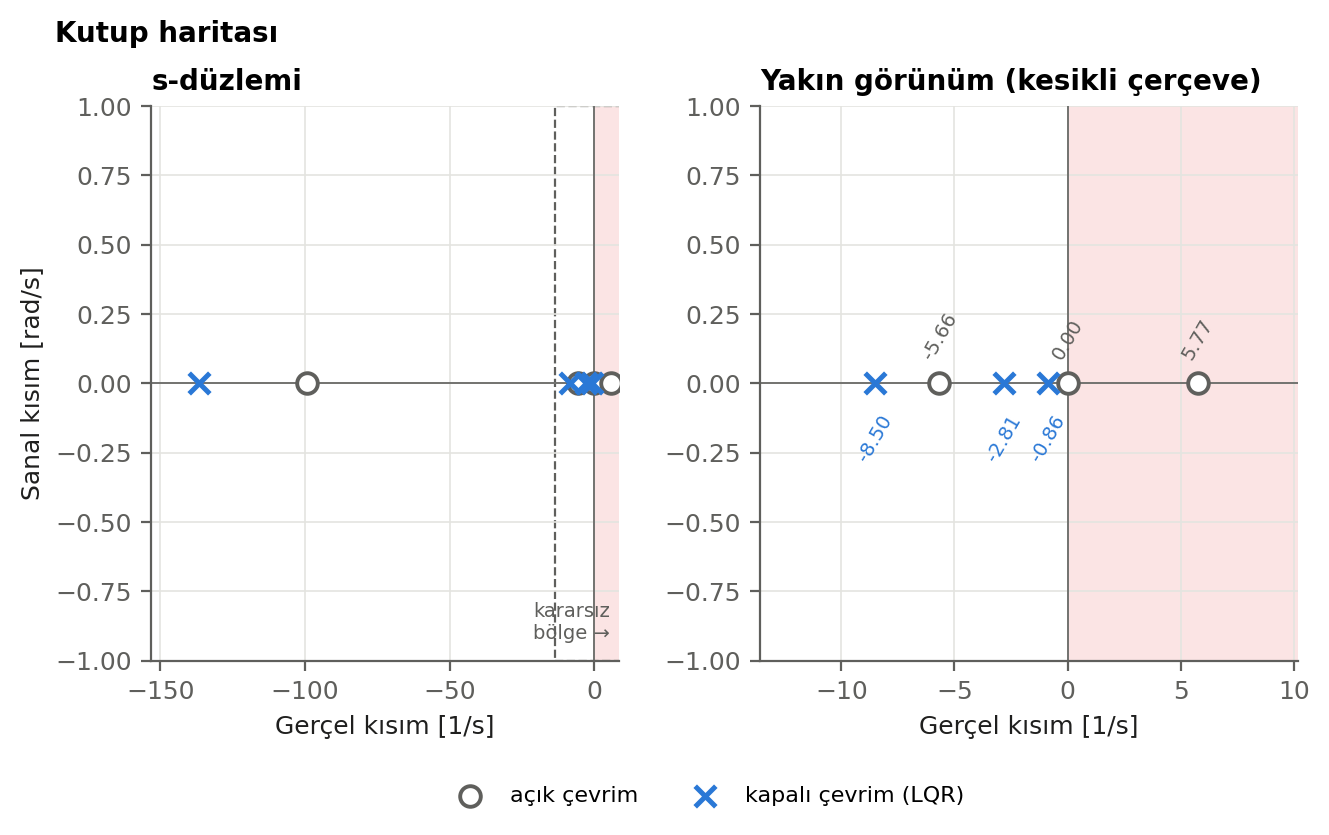
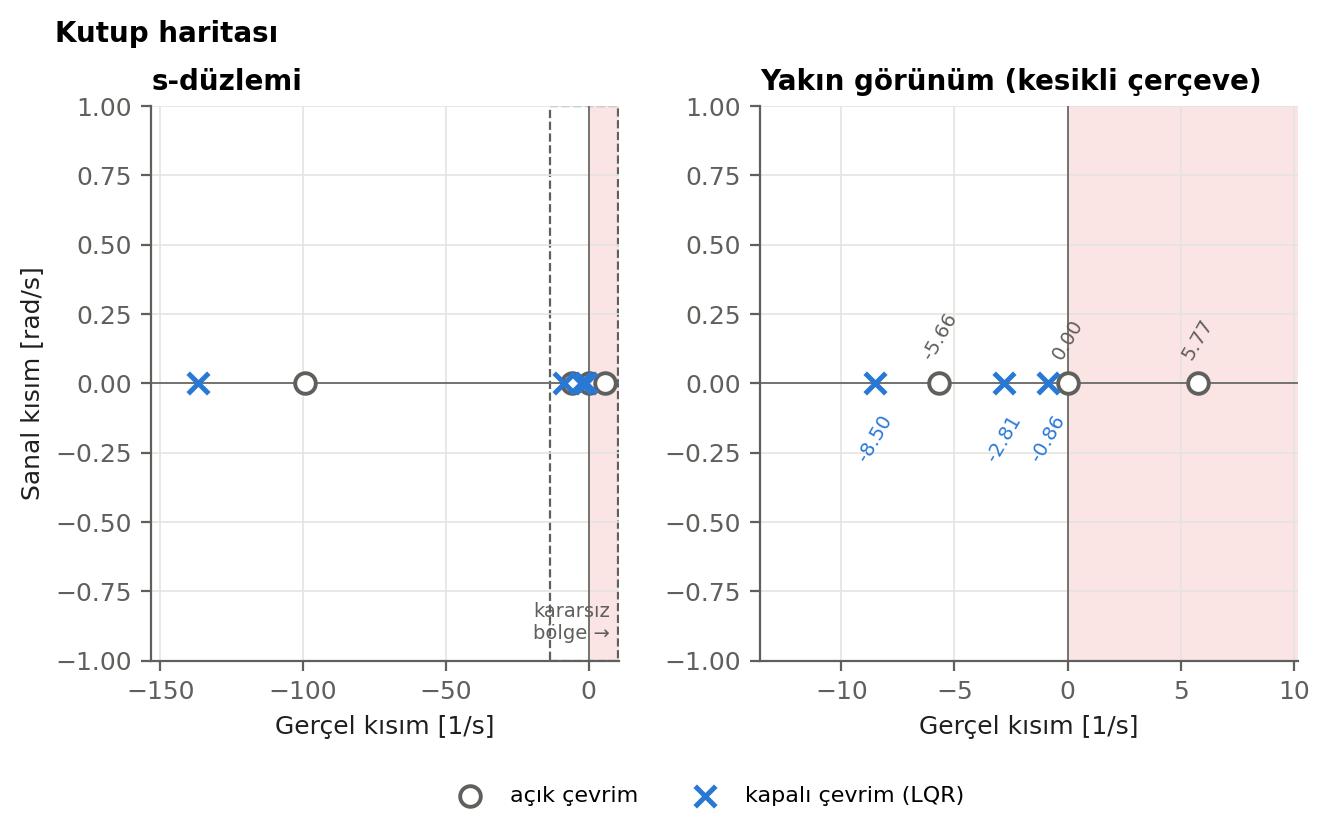
PR #45 inceleme 4. tur: kutup haritası yakın görünümü, y ekseni tüm geçiş noktalarını kapsar, FAULT lejantı

diff --git a/tools/rapor_sekilleri.py b/tools/rapor_sekilleri.py
@@ -231,7 +231,12 @@ def fig_poles(S: Setup, out: Path):
     cld = np.linalg.eigvals(Ad - Bd @ S.K.reshape(1, -1))
     cls = np.log(cld.astype(complex)) / TS          # ayrık kutupların sürekli karşılığı
     fig, (a1, a2) = plt.subplots(1, 2, figsize=(7.4, 3.6), gridspec_kw={"wspace": 0.28, "width_ratios": (1, 1.15)})
-    zoom = max(8.0, 1.6 * float(max(abs(z.real) for z in np.concatenate([ol, cls]) if abs(z.real) < 20)))
+    # yakın görünüm: kararsız kutbun ~1.5 katına kadar olan (sıfır civarı) kutuplar; tam görünümden geniş olmasın
+    allp = np.concatenate([ol, cls])
+    near_lim = 1.5 * max(float(ol.real.max()), 1.0)
+    near = [abs(z.real) for z in allp if abs(z.real) <= near_lim]
+    zoom = max(8.0, 1.6 * max(near, default=0.0))
+    zoom = min(zoom, 0.8 * abs(float(allp.real.min())) * 1.12)
     im = max(1.0, 1.3 * float(np.abs(np.concatenate([ol.imag, cls.imag])).max()))
     for ax, full in ((a1, True), (a2, False)):
         ax.axhline(0, color=INK2, lw=0.6)
@@ -255,7 +260,7 @@ def fig_poles(S: Setup, out: Path):
                     ax.annotate(fmt_c(z), (z.real, z.imag), xytext=(0, -10), textcoords="offset points",
                                 ha="center", va="top", fontsize=7, color=CAT[0], rotation=60)
     a1.set_ylabel("Sanal kısım [rad/s]")
-    a1.set_xlim(min(np.concatenate([ol.real, cls.real])) * 1.12, max(8.0, max(ol.real) * 1.5))
+    a1.set_xlim(min(np.concatenate([ol.real, cls.real])) * 1.12, max(8.0, max(ol.real) * 1.5, zoom * 0.75 * 1.05))
     a1.axvspan(-zoom, zoom * 0.75, facecolor="none", edgecolor=INK2, lw=0.8, ls="--")
     a1.text(0.98, 0.04, "kararsız\nbölge →", transform=a1.transAxes, ha="right", fontsize=7, color=INK2)
     a1.set_title("s-düzlemi")
@@ -284,6 +289,7 @@ def fig_mismatch(S: Setup, out: Path):
              "TUTAMADI": (dict(marker="o", mfc="white", mec=CRITICAL, mew=1.8), "yakalandı, tutulamadı"),
              "OTURMADI": (dict(marker="o", mfc="white", mec=SERIOUS, mew=1.8), "süre sonunda oturmadı"),
              "RAY SINIRI": (dict(marker="^", color=SERIOUS), "ray ucuna çarptı"),
+             "FAULT": (dict(marker="s", color=CRITICAL), "hata (yazılımsal sınır)"),
              "fail": (dict(marker="x", color=CRITICAL, mew=2), "swing-up bitmedi")}
     seen = {("ok" if v[3] in ("BAŞARILI", "SINIRDA") else v[3] if v[3] in kinds else "fail") for v in res.values()}
     order = [k for k in kinds if k in seen]
@@ -309,7 +315,7 @@ def fig_mismatch(S: Setup, out: Path):
 
     a2 = fig.add_subplot(gs[1])
     pct = [(k - 1) * 100 for k in MISMATCH_GRID]
-    ok_t = [tb for (_, _, tb, st_) in res.values() if tb is not None and st_ in ("BAŞARILI", "SINIRDA", "DÜŞTÜ", "TUTAMADI")]
+    ok_t = [tb for (_, _, tb, st_) in res.values() if tb is not None]      # geçiş anında çizilen her nokta
     top = max(12.5, math.ceil(1.25 * max(ok_t, default=0.0) / 2.5) * 2.5)
     for k, x in zip(MISMATCH_GRID, pct):
         r, e, tb, st_ = res[k]
@@ -323,6 +329,8 @@ def fig_mismatch(S: Setup, out: Path):
             a2.scatter(x, tb, s=60, facecolors="white", edgecolors=SERIOUS, linewidths=1.8, zorder=3)
         elif st_ == "RAY SINIRI":
             a2.scatter(x, tb if tb is not None else top, s=60, marker="^", color=SERIOUS, zorder=3)
+        elif st_ == "FAULT":
+            a2.scatter(x, tb if tb is not None else top, s=50, marker="s", color=CRITICAL, zorder=3)
         else:
             a2.scatter(x, top, s=60, marker="x", color=CRITICAL, linewidths=2, zorder=3)
     a2.axhline(top - 1.25, color=INK2, lw=0.6, ls=":")
